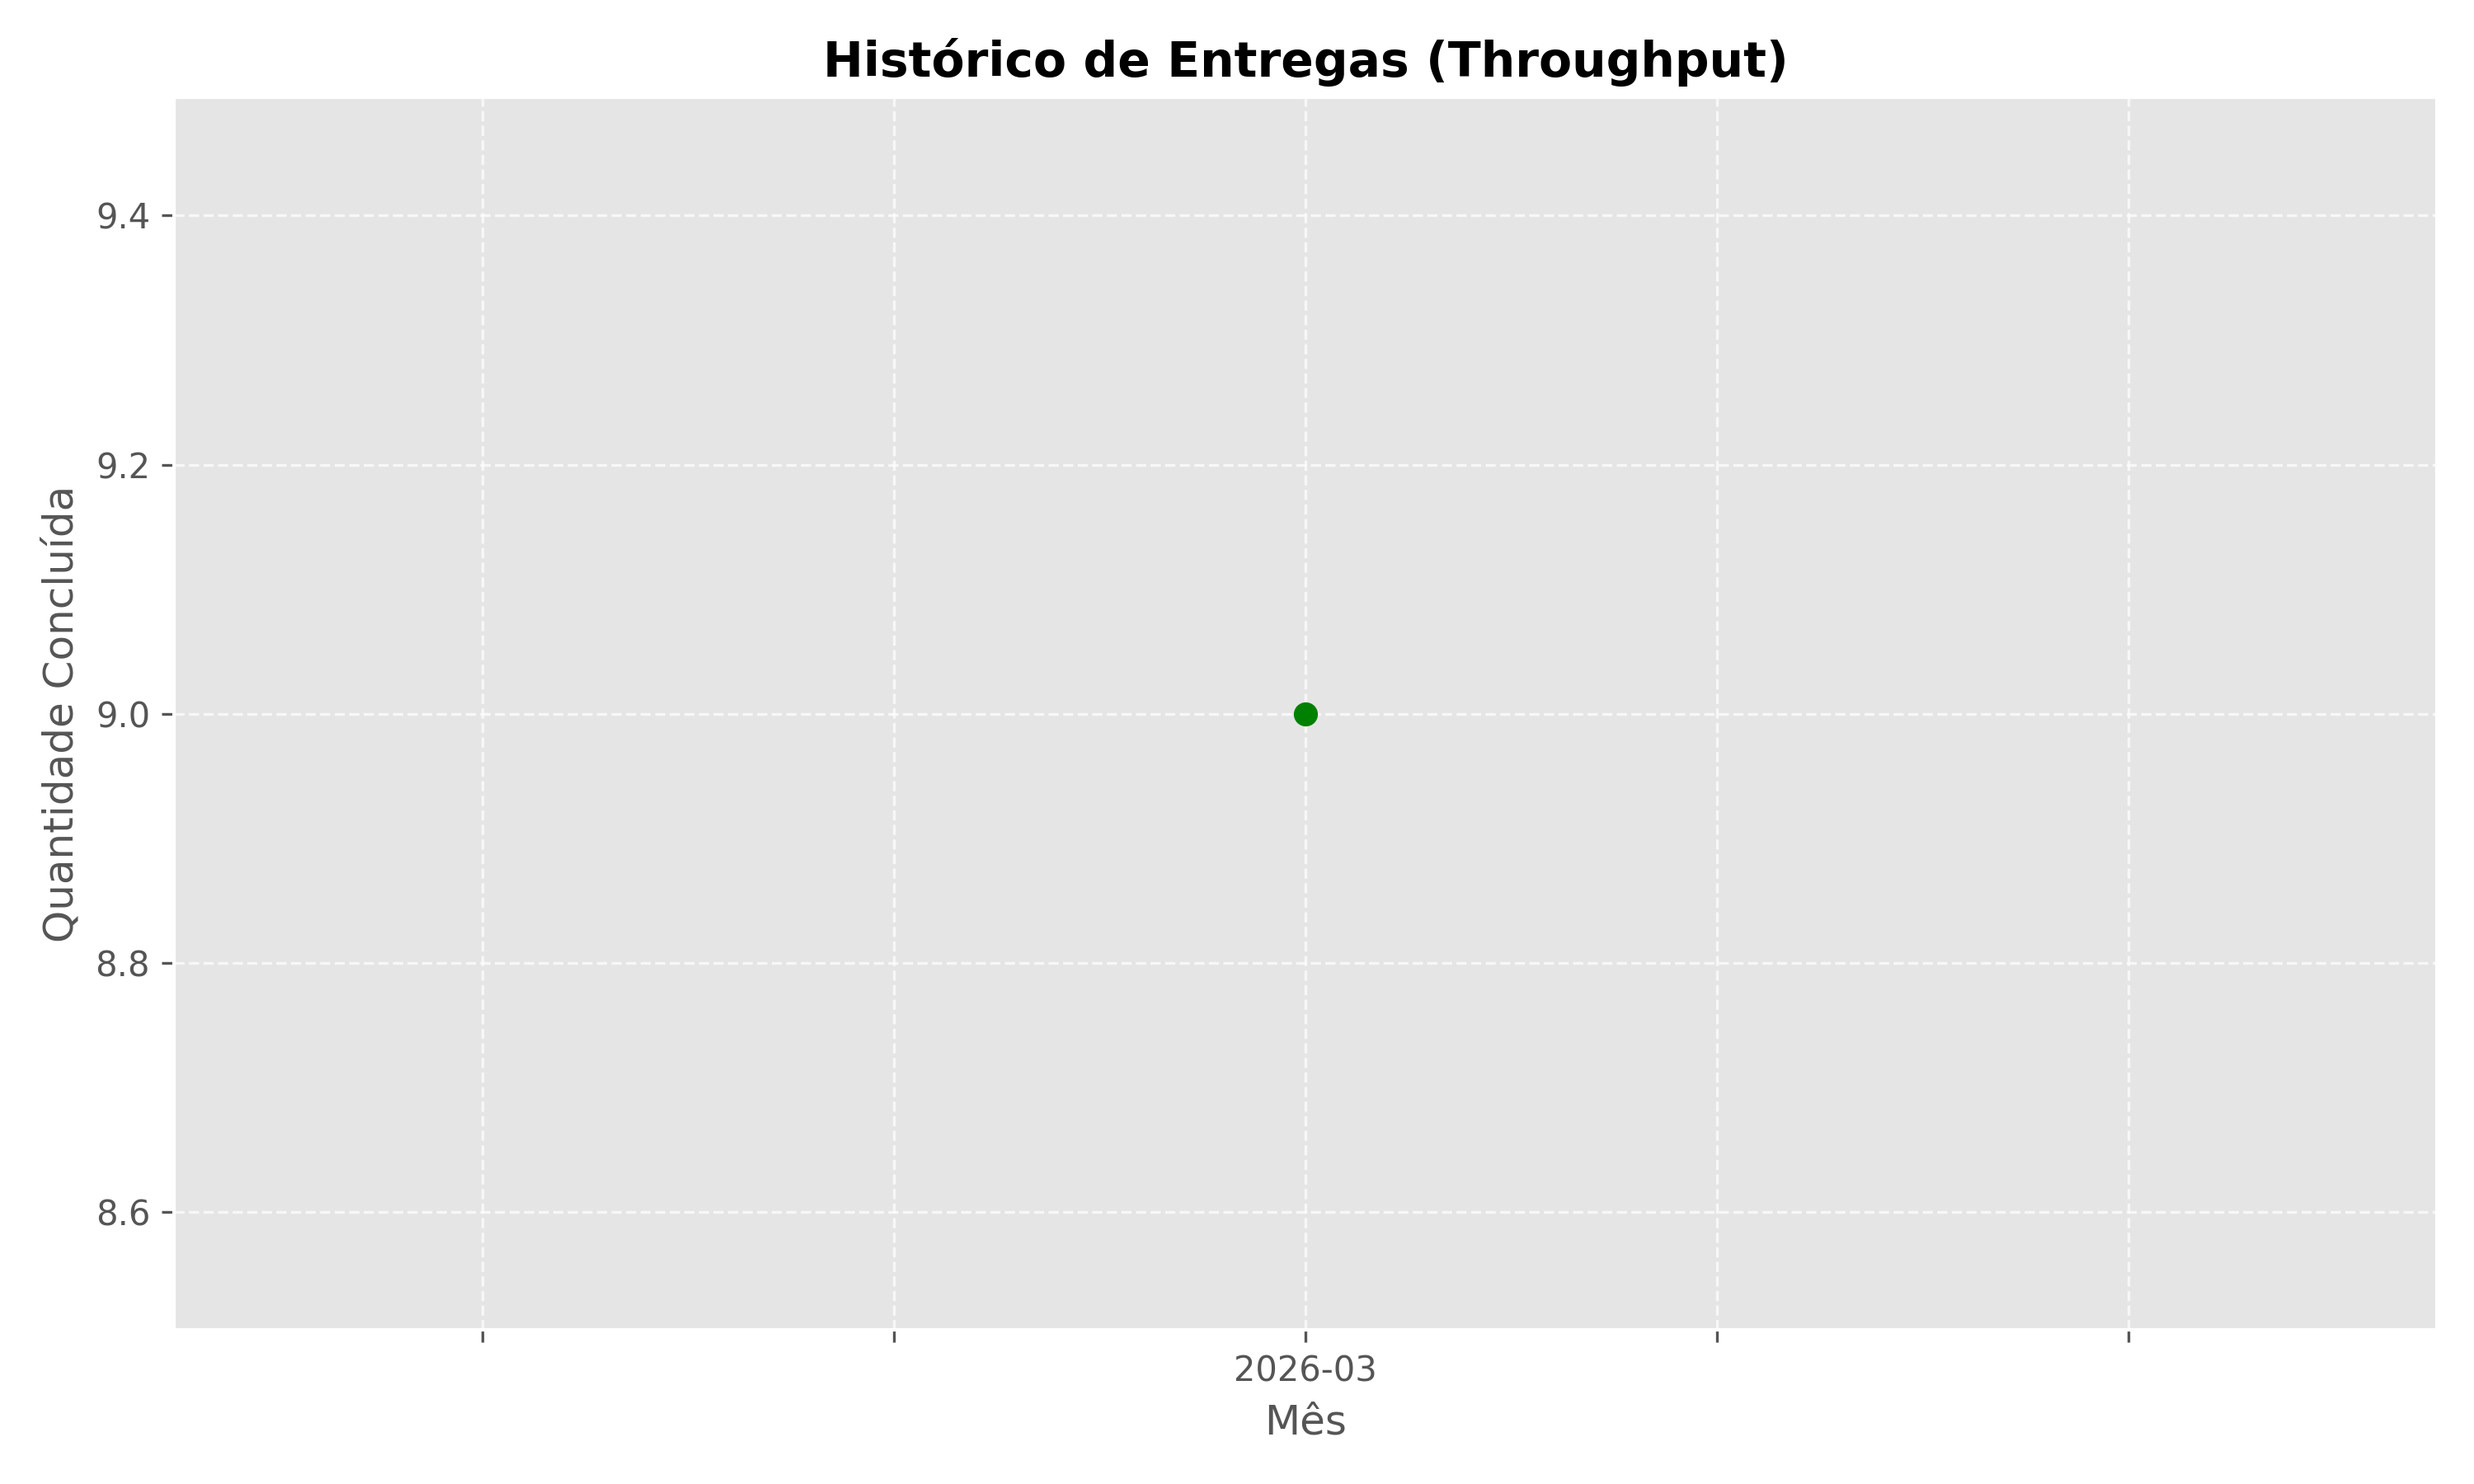
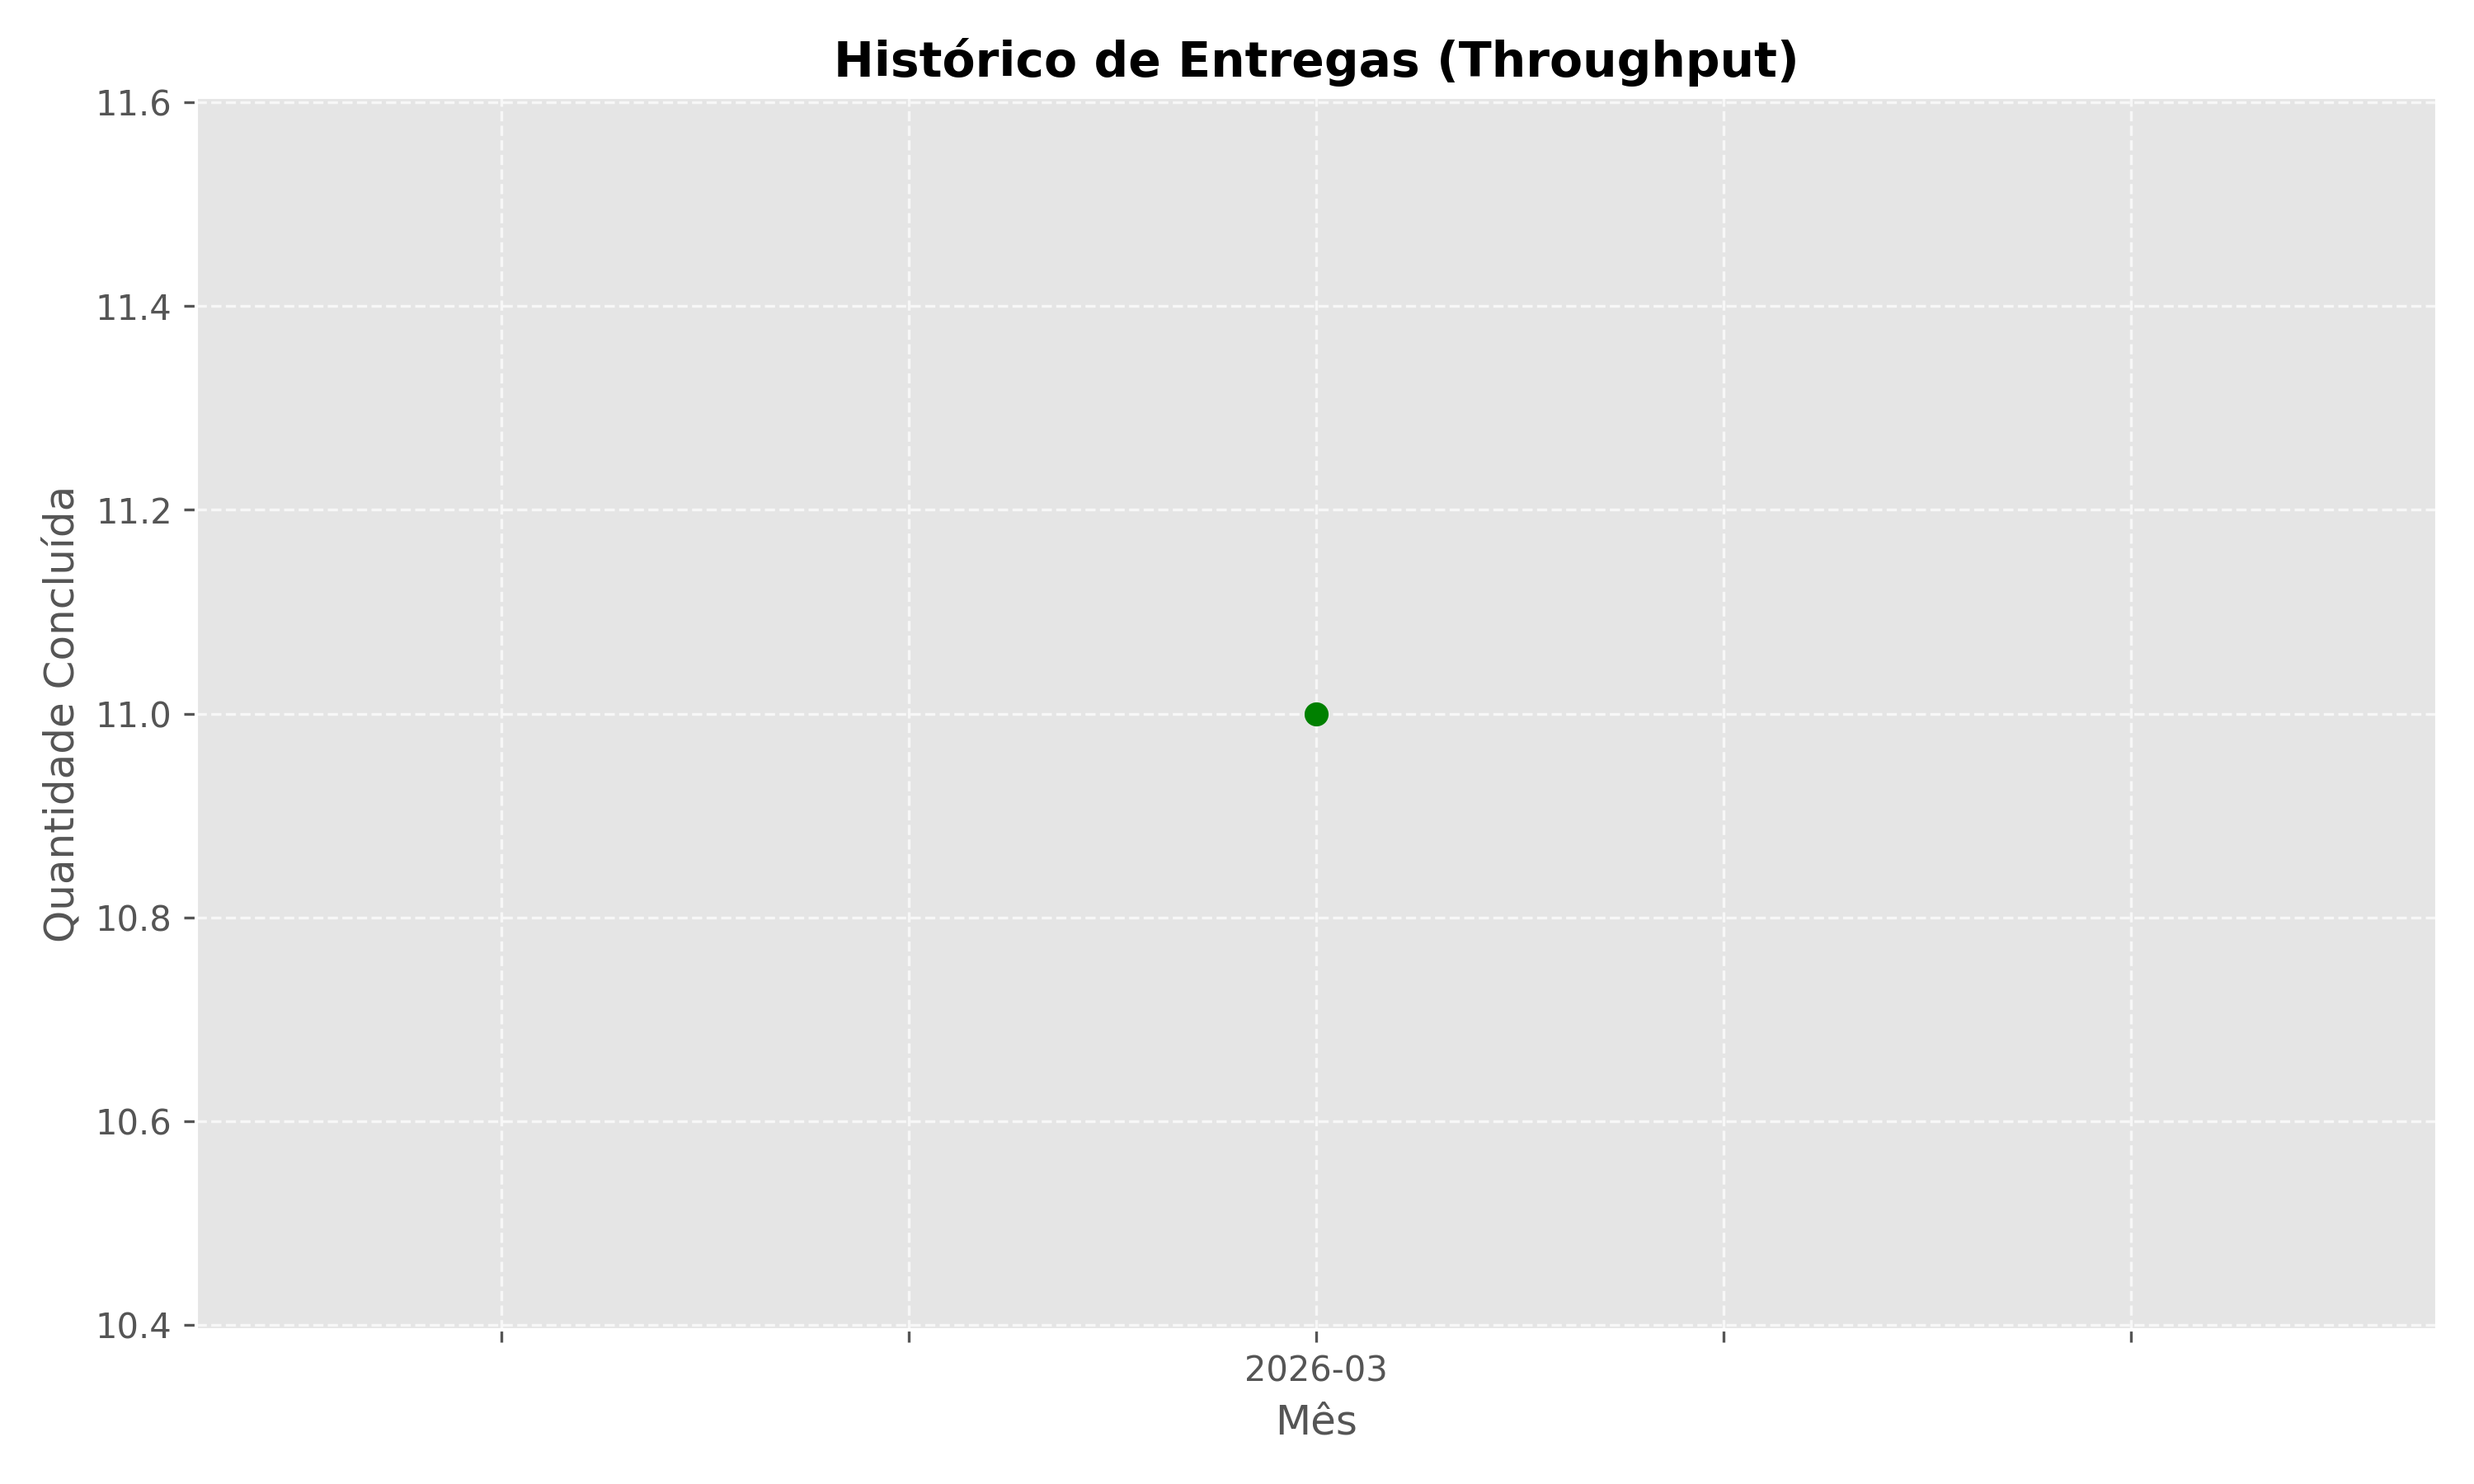
Deployed fc8a85be with MkDocs version: 1.5.3

Changed region(s): [[0.031, 0.0622, 0.093, 0.9022], [0.31, 0.0311, 0.744, 0.0622], [0.496, 0.9022, 0.558, 0.9644]]

diff --git a/atividades/2026-03-atividades/index.html b/atividades/2026-03-atividades/index.html
@@ -979,7 +979,7 @@
 <p>Este documento registra as atividades concluídas durante o mês para fins de estatística e transparência.</p>
 <h2 id="resumo-do-mes">📊 Resumo do Mês</h2>
 <ul>
-<li><strong>Total de Issues Concluídas:</strong> 9</li>
+<li><strong>Total de Issues Concluídas:</strong> 11</li>
 <li><strong>Novas Decisões Formalizadas:</strong> 0</li>
 <li><strong>Reuniões Realizadas:</strong> 0</li>
 </ul>
@@ -1003,8 +1003,8 @@
 <td>Pesquisa</td>
 <td>@paulossjunior</td>
 <td>2026-03-08</td>
-<td>-</td>
-<td style="text-align: center;">⏳</td>
+<td>2026-03-10</td>
+<td style="text-align: center;">✅</td>
 <td>-</td>
 </tr>
 <tr>
@@ -1021,8 +1021,8 @@
 <td>⏳ Em fase de aprovação pela PROEX</td>
 <td>@N/A</td>
 <td>2026-03-08</td>
-<td>-</td>
-<td style="text-align: center;">⏳</td>
+<td>2026-03-10</td>
+<td style="text-align: center;">✅</td>
 <td>-</td>
 </tr>
 <tr>
@@ -1174,6 +1174,15 @@
 </tr>
 </thead>
 <tbody>
+<tr>
+<td><a href="https://github.com/ifesserra-lab/diretoria/issues/24">#24</a> - [REUNIÃO]: Alinhamentos Semanais (12/03/2026)</td>
+<td>- Revisão das Tarefas Abertas e Em Progresso no Kanban</td>
+<td>@N/A</td>
+<td>2026-03-10</td>
+<td>-</td>
+<td style="text-align: center;">⏳</td>
+<td>-</td>
+</tr>
 <tr>
 <td><a href="https://github.com/ifesserra-lab/diretoria/issues/23">#23</a> - [TAREFA]: Laboratório SOF — Alocação de sala para 19 máquinas</td>
 <td>Gestão</td>

diff --git a/atividades/2025-12-atividades/index.html b/atividades/2025-12-atividades/index.html
@@ -979,7 +979,7 @@
 <p>Este documento registra as atividades concluídas durante o mês para fins de estatística e transparência.</p>
 <h2 id="resumo-do-mes">📊 Resumo do Mês</h2>
 <ul>
-<li><strong>Total de Issues Concluídas:</strong> 2</li>
+<li><strong>Total de Issues Concluídas:</strong> 3</li>
 <li><strong>Novas Decisões Formalizadas:</strong> 0</li>
 <li><strong>Reuniões Realizadas:</strong> 0</li>
 </ul>
@@ -1003,8 +1003,8 @@
 <td>⏳ Em fase de aprovação pela PROEX</td>
 <td>@N/A</td>
 <td>2026-03-08</td>
-<td>-</td>
-<td style="text-align: center;">⏳</td>
+<td>2026-03-10</td>
+<td style="text-align: center;">✅</td>
 <td>-</td>
 </tr>
 <tr>
